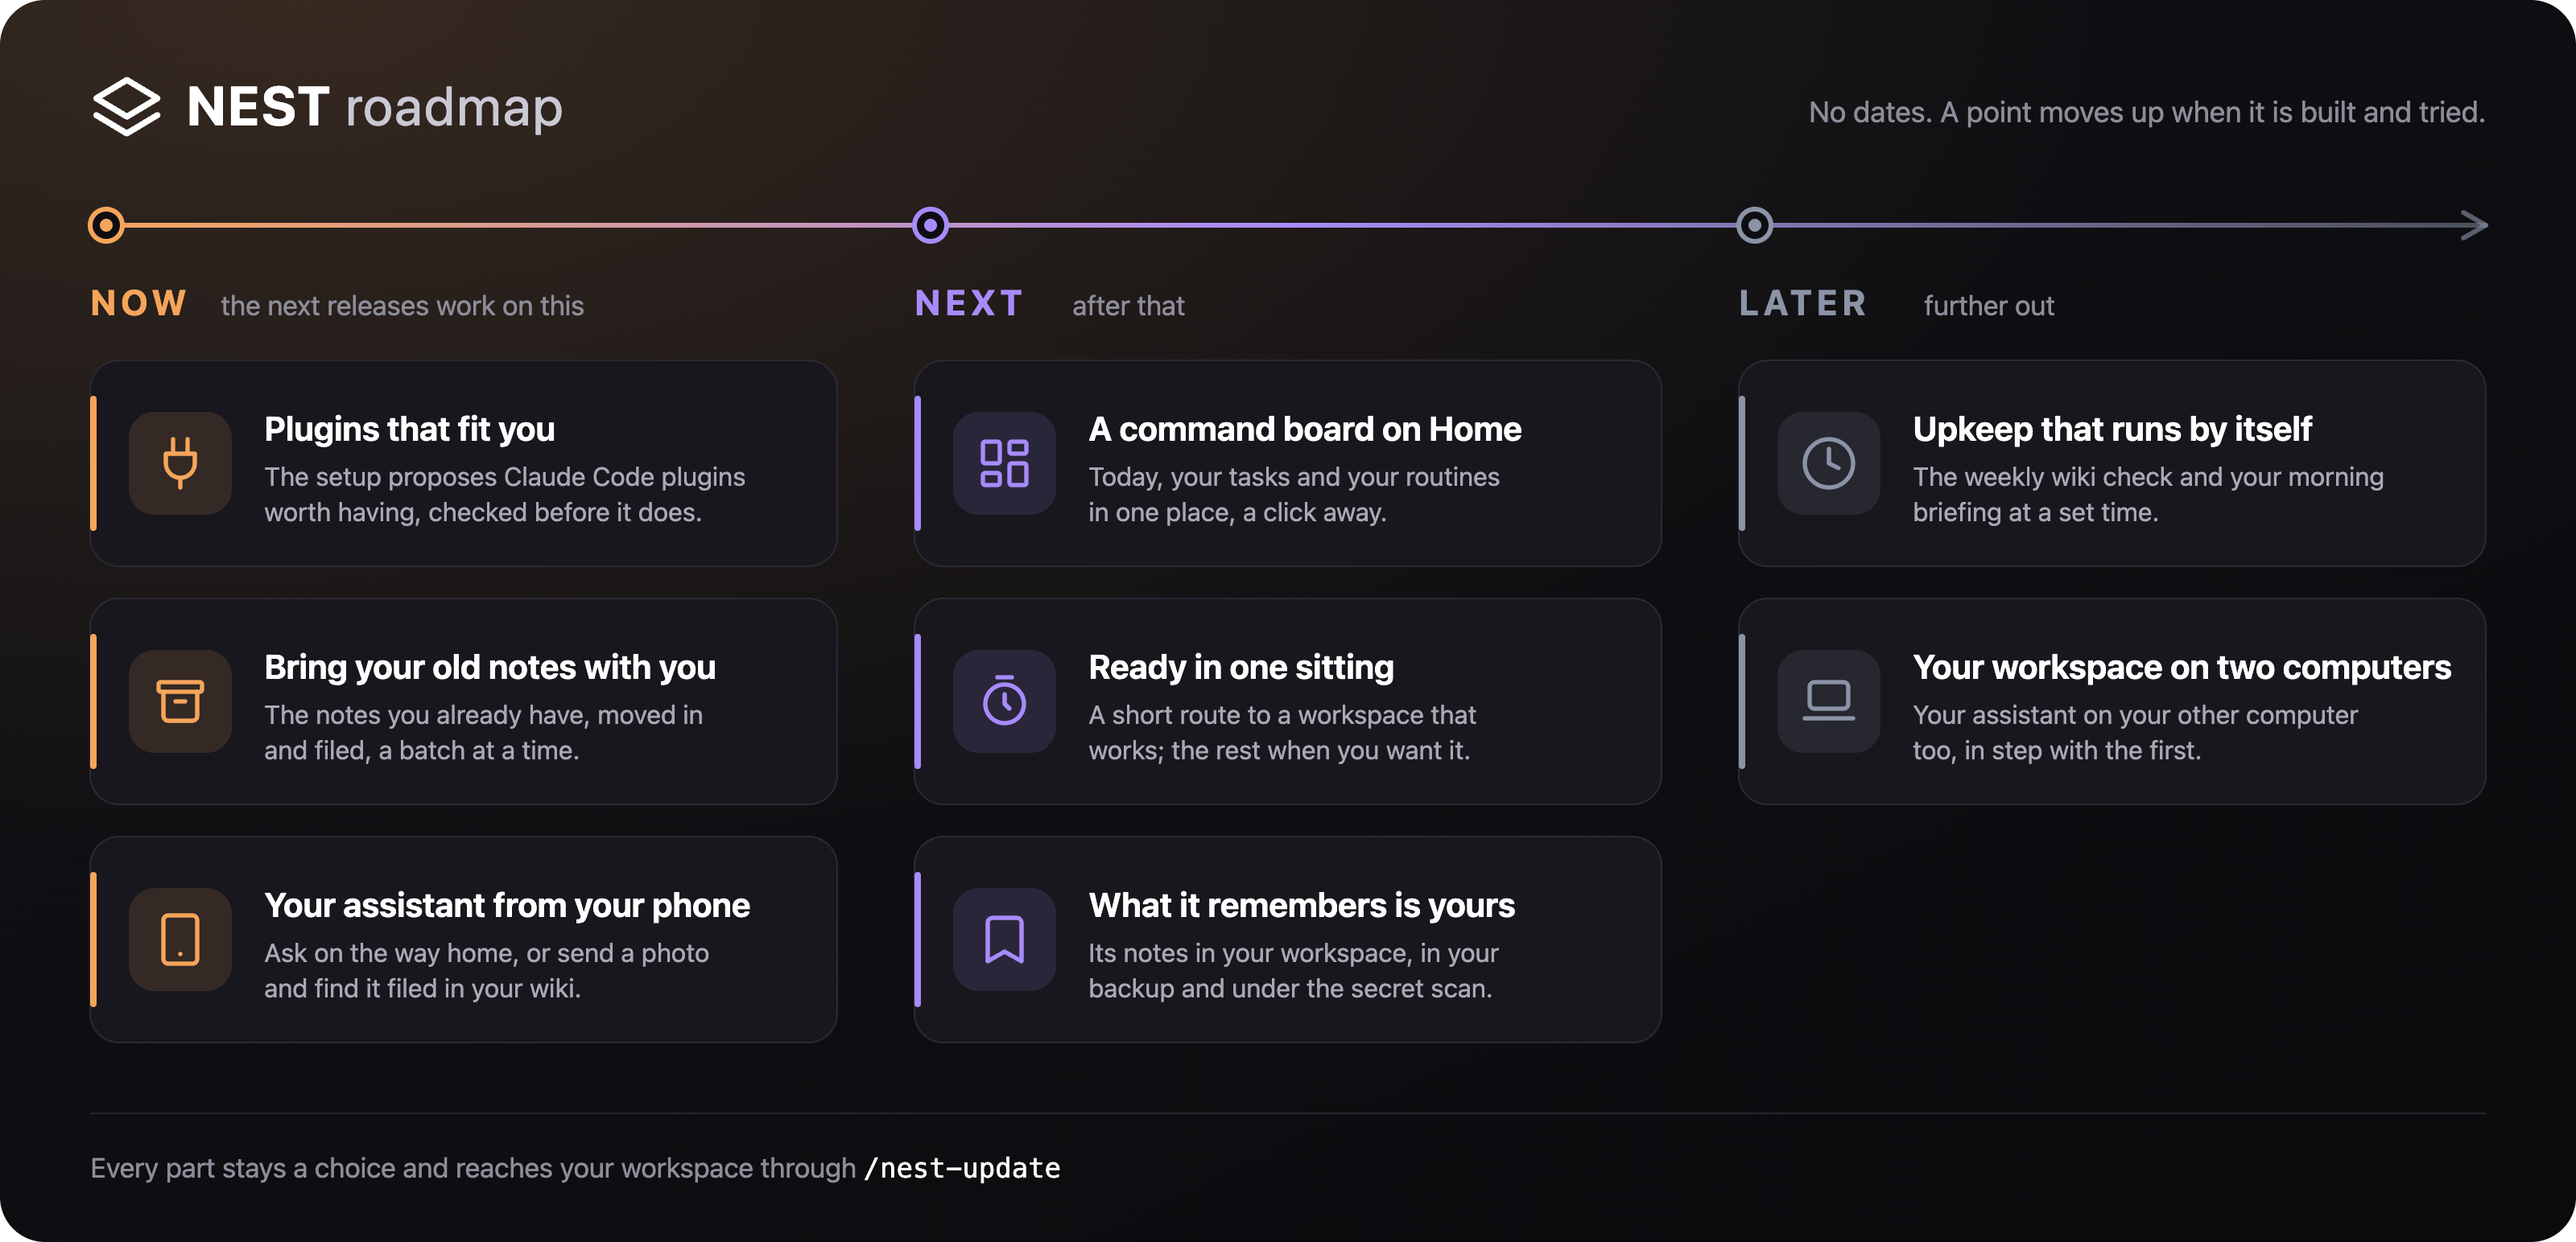
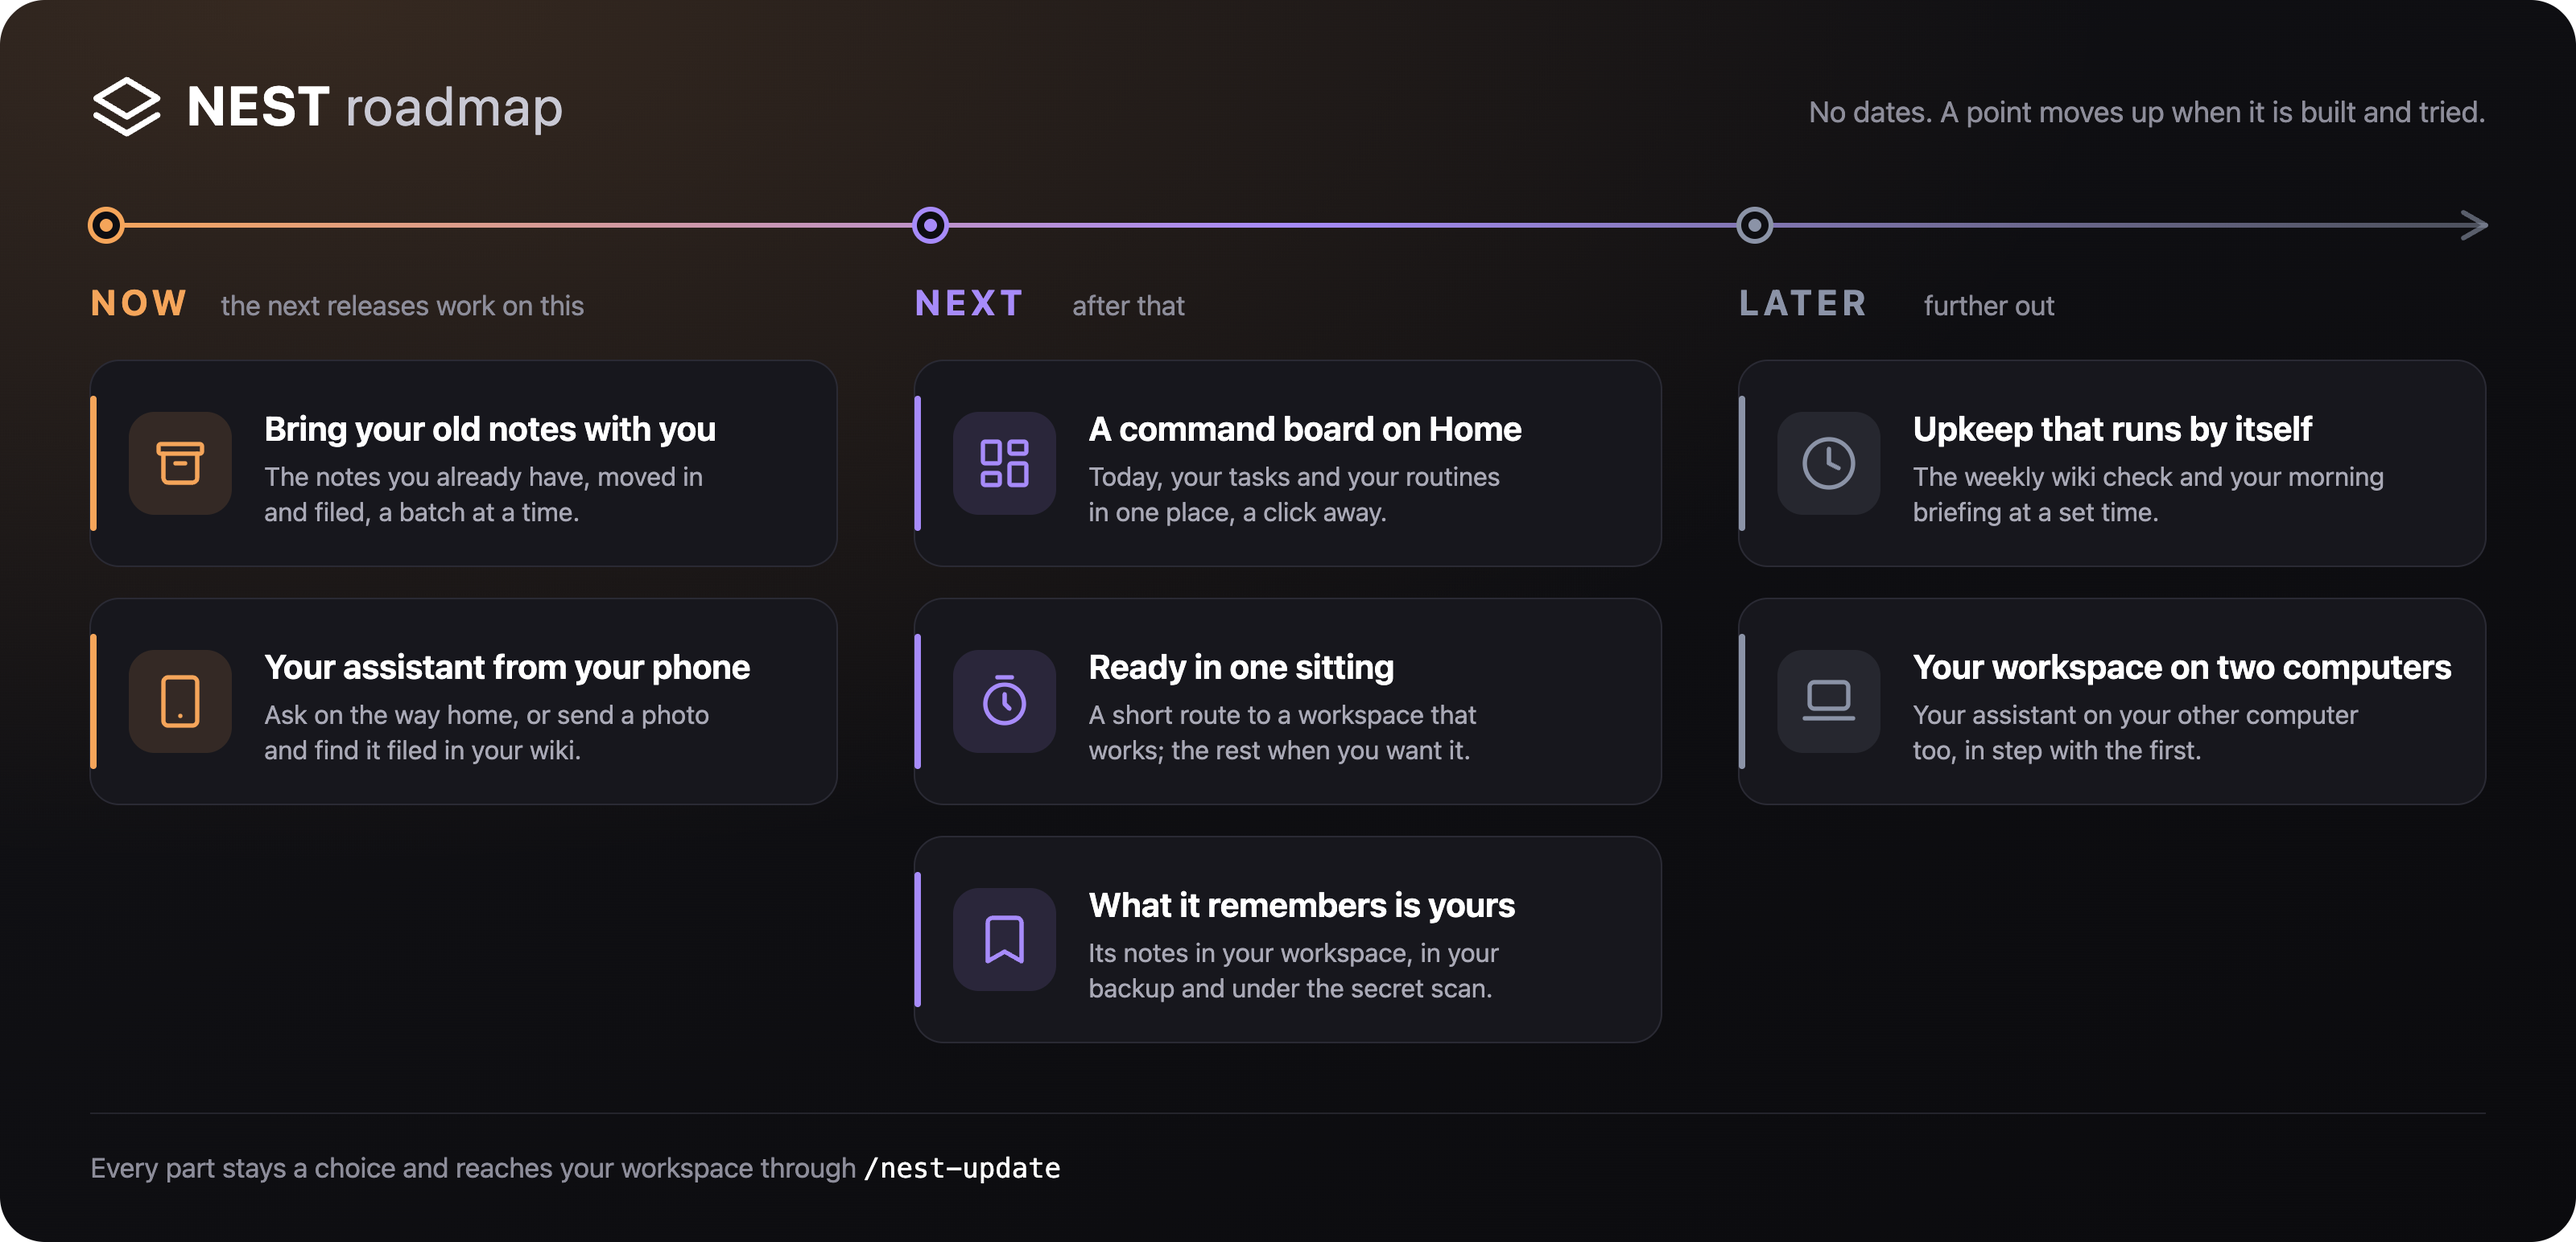
Docs: take plugins off the roadmap, they shipped in 1.3.0

Changed region(s): [[0.0312, 0.715, 0.3125, 0.8083], [0.0625, 0.3109, 0.2812, 0.4352], [0.0625, 0.5285, 0.3125, 0.6218]]

diff --git a/ROADMAP.md b/ROADMAP.md
@@ -6,17 +6,13 @@ it ships. Every new part stays a choice, and reaches a workspace you already hav
 `/nest-update`.
 
 <p align="center">
-  <img src="assets/roadmap.png" alt="NEST roadmap. Now: plugins that fit you, bring your old notes with you, your assistant from your phone. Next: a command board on Home, ready in one sitting, what your assistant remembers is yours. Later: upkeep that runs by itself, your workspace on two computers." width="100%">
+  <img src="assets/roadmap.png" alt="NEST roadmap. Now: bring your old notes with you, your assistant from your phone. Next: a command board on Home, ready in one sitting, what your assistant remembers is yours. Later: upkeep that runs by itself, your workspace on two computers." width="100%">
 </p>
 
 ## 🟠 Now
 
 What the next releases work on.
 
-- 🔌 **Plugins that fit you.** Claude Code has plugins, made by Anthropic and by other people,
-  that add routines and tools. Some make a real difference and many do not. The setup proposes
-  the few that fit what you told it, and only ones NEST has looked through first: a plugin can
-  run programs on your computer, so "popular" is not enough.
 - 📦 **Bring your old notes with you.** The setup already finds the notes you have. This is the
   step after it: your assistant moves them in a batch at a time, files them where they belong,
   and leaves the originals where they are until you say otherwise.

diff --git a/CHANGELOG.md b/CHANGELOG.md
@@ -19,6 +19,11 @@ section in plain words: what it means if you already built a workspace with an e
 
 ## [Unreleased]
 
+### 🔧 Changed
+
+- The roadmap no longer lists plugins under Now: they shipped in 1.3.0. `ROADMAP.md` and
+  `assets/roadmap.png` (drawn from `assets/roadmap.svg`) show the two points that are left.
+
 ---
 
 ## [1.3.0] - 2026-11-25
